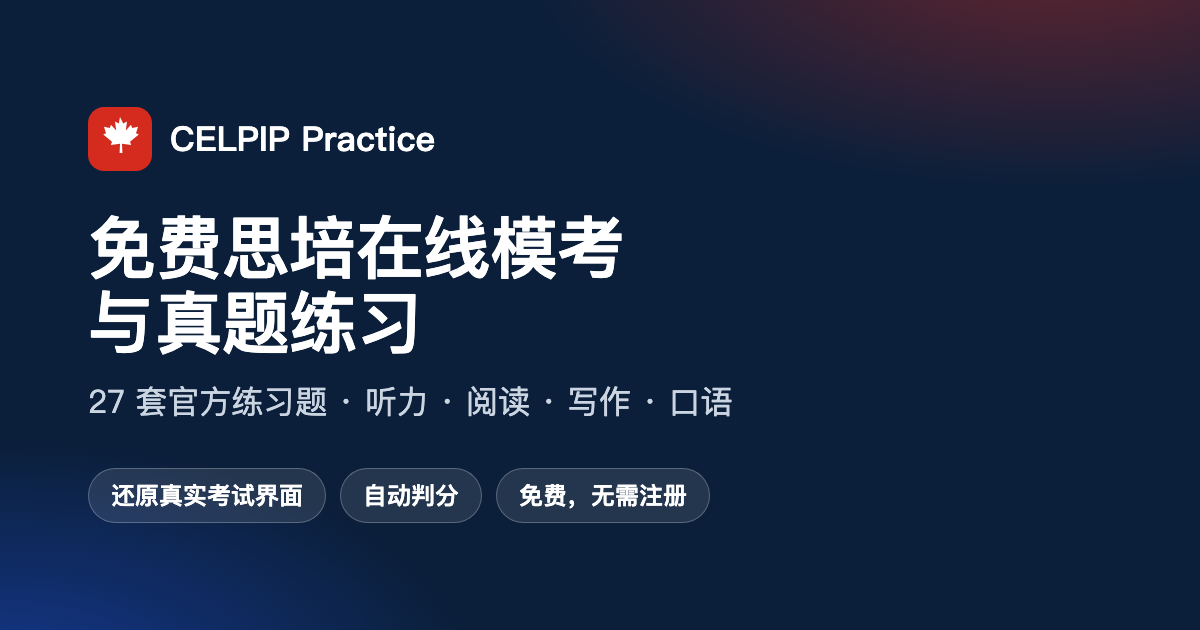
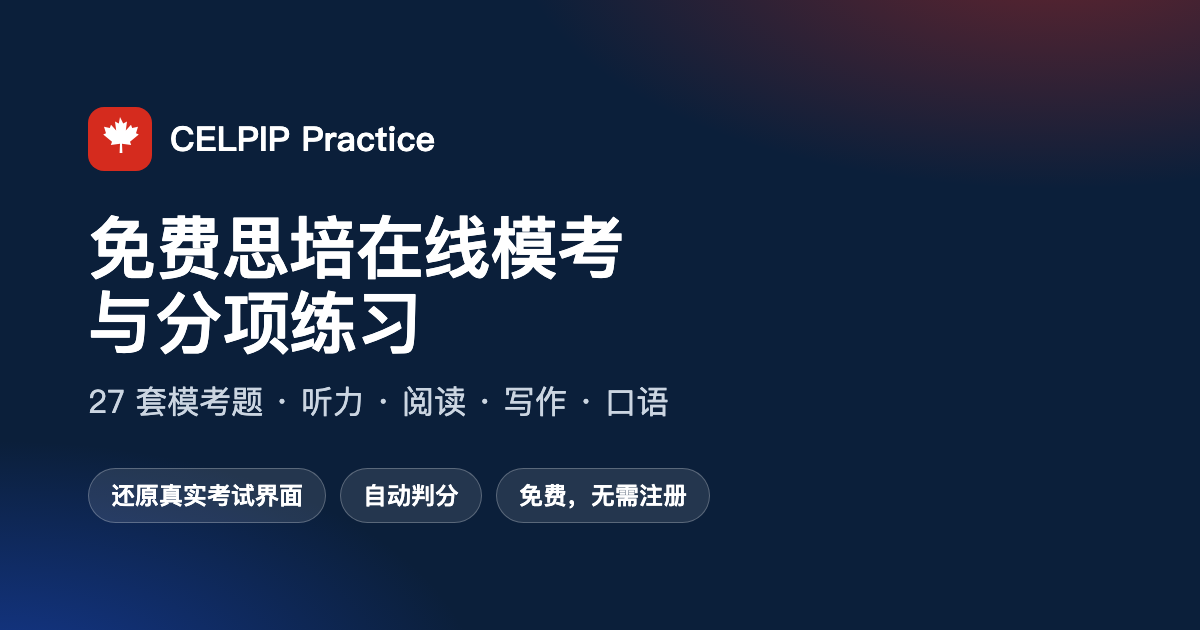
Drop 'official'/'真题' wording from site copy and share image

Changed region(s): [[0.1233, 0.6032, 0.6167, 0.6635], [0.1233, 0.4524, 0.2467, 0.573]]

diff --git a/lib/dict.ts b/lib/dict.ts
@@ -30,9 +30,9 @@ const zh = {
   "skill.writing": "写作",
   "skill.speaking": "口语",
 
-  "title.set": "真题 {set} · Test {test}",
+  "title.set": "Set {set} · Test {test}",
   "title.extra": "2021年3月前 · Test {test}",
-  "title.setGroup": "真题 {set}",
+  "title.setGroup": "Set {set}",
   "title.extraGroup": "2021年3月前旧版",
 
   "common.loading": "加载中…",
@@ -42,12 +42,12 @@ const zh = {
   "common.minutes": "{n} 分钟",
   "common.notes": "{n} 条提示",
 
-  "home.badge": "CELPIP-General 官方真题",
+  "home.badge": "CELPIP-General 模考练习",
   "home.title": "像真实考试一样练习思培",
-  "home.lead": "还原官方考试界面的在线模考，加上听、说、读、写分项练习。打开浏览器就能用，记录只保存在你自己的设备上。",
+  "home.lead": "还原机考界面的在线模考，加上听、说、读、写分项练习。打开浏览器就能用，记录只保存在你自己的设备上。",
   "home.startExam": "开始模拟考试",
   "home.startPractice": "分项练习",
-  "home.statTests": "套真题",
+  "home.statTests": "套模考题",
   "home.statQuestions": "道听力和阅读题",
   "home.statSkills": "项技能全覆盖",
   "home.examTitle": "模拟考试",
@@ -77,7 +77,7 @@ const zh = {
   "guide.tips": "答题技巧",
   "guide.scoring": "评分方式",
   "guide.try": "试一题",
-  "guide.tryNote": "“试一题”会打开真题 13 · Test 1 里对应的部分。",
+  "guide.tryNote": "“试一题”会打开 Set 13 · Test 1 里对应的部分。",
   "guide.practiceSkill": "开始{skill}练习",
   "guide.mock": "完整模考",
   "guide.others": "其他部分",
@@ -121,18 +121,18 @@ const zh = {
   "test.contentNote": "题目内容保持英文，与真实考试一致。",
 
   "meta.siteName": "CELPIP Practice 思培模考",
-  "meta.home.title": "CELPIP 免费在线模考与真题练习 | 思培听说读写",
-  "meta.home.description": "免费的 CELPIP（思培）在线模拟考试和分项练习：27 套官方练习题，还原真实考试界面，听力、阅读、写作、口语全覆盖，自动判分并估算 CELPIP 等级。",
-  "meta.exam.title": "CELPIP 全真模拟考试",
+  "meta.home.title": "CELPIP 免费在线模考与练习 | 思培听说读写",
+  "meta.home.description": "免费的 CELPIP（思培）在线模拟考试和分项练习：27 套模考题，还原真实考试界面，听力、阅读、写作、口语全覆盖，自动判分并估算 CELPIP 等级。",
+  "meta.exam.title": "CELPIP 在线模拟考试",
   "meta.exam.description": "按真实 CELPIP-General 流程计时模考：听力、阅读、写作、口语依次进行，录音只播一次，结束后给出成绩、等级估算和逐题解析。",
   "meta.practice.title": "CELPIP 分项练习：听力、阅读、写作、口语",
-  "meta.practice.description": "按技能和 Part 单独练习 CELPIP：听力可重听并查看原文，阅读即时对答案，写作和口语附官方范文和范例。",
+  "meta.practice.description": "按技能和 Part 单独练习 CELPIP：听力可重听并查看原文，阅读即时对答案，写作和口语附范文和范例。",
   "meta.history.title": "练习记录",
   "meta.run.title": "练习",
-  "meta.keywords": "CELPIP,思培,CELPIP 模考,CELPIP 真题,CELPIP 练习,思培考试,加拿大移民英语考试,CELPIP 听力,CELPIP 阅读,CELPIP 写作,CELPIP 口语",
+  "meta.keywords": "CELPIP,思培,CELPIP 模考,CELPIP 模拟题,CELPIP 练习,思培考试,加拿大移民英语考试,CELPIP 听力,CELPIP 阅读,CELPIP 写作,CELPIP 口语",
 
   "exam.title": "模拟考试",
-  "exam.lead": "选择一套真题，开始完整模考或只考某一科。",
+  "exam.lead": "选择一套题，开始完整模考或只考某一科。",
   "exam.detailTitle": "模拟考试",
   "exam.rules": "考试顺序与真实 CELPIP-General 相同。录音只播放一次，计时结束自动进入下一部分，不能返回上一页。",
   "exam.full": "完整模考",
@@ -183,7 +183,7 @@ const zh = {
   "history.attempts": "次练习",
   "history.avg": "{skill}平均正确率",
   "history.date": "时间",
-  "history.test": "真题",
+  "history.test": "套题",
   "history.skill": "科目",
   "history.mode": "模式",
   "history.score": "成绩",
@@ -203,11 +203,11 @@ const zh = {
   "result.correct": "正确答案：",
   "result.yourWriting": "你的作答（{n} words）",
   "result.noWriting": "（未作答）",
-  "result.officialSamples": "官方范文",
+  "result.officialSamples": "参考范文",
   "result.aiLater": "AI 评分将在后续版本加入。",
   "result.noRecording": "（没有录音）",
   "result.download": "下载",
-  "result.speakingSamples": "官方范例",
+  "result.speakingSamples": "参考范例",
   "result.noSamples": "本题没有提供范文。",
 
   "runner.transcript": "原文 Transcript",
@@ -251,9 +251,9 @@ const en: Record<Key, string> = {
   "common.minutes": "{n} min",
   "common.notes": "{n} notes",
 
-  "home.badge": "Official CELPIP-General practice tests",
+  "home.badge": "CELPIP-General practice tests",
   "home.title": "Practise CELPIP the way you'll take it",
-  "home.lead": "Full mock exams on a faithful copy of the official test screens, plus focused practice for listening, reading, writing and speaking. Runs in your browser; your history stays on your device.",
+  "home.lead": "Full mock exams on screens modelled on the computer-delivered test, plus focused practice for listening, reading, writing and speaking. Runs in your browser; your history stays on your device.",
   "home.startExam": "Start a mock exam",
   "home.startPractice": "Practise by skill",
   "home.statTests": "practice tests",
@@ -335,7 +335,7 @@ const en: Record<Key, string> = {
   "meta.exam.title": "Full CELPIP Mock Exam",
   "meta.exam.description": "Take a timed CELPIP-General mock exam in the real order: listening, reading, writing and speaking. Audio plays once, and you get a score, an estimated level and a question-by-question review.",
   "meta.practice.title": "CELPIP Practice by Skill: Listening, Reading, Writing, Speaking",
-  "meta.practice.description": "Practise one CELPIP skill and part at a time: replay listening audio with transcripts, check reading answers instantly, and compare your writing and speaking with official sample responses.",
+  "meta.practice.description": "Practise one CELPIP skill and part at a time: replay listening audio with transcripts, check reading answers instantly, and compare your writing and speaking with sample responses.",
   "meta.history.title": "History",
   "meta.run.title": "Practice",
   "meta.keywords": "CELPIP,CELPIP practice test,CELPIP mock exam,free CELPIP test,CELPIP listening practice,CELPIP reading practice,CELPIP writing practice,CELPIP speaking practice,CELPIP-General",
@@ -412,11 +412,11 @@ const en: Record<Key, string> = {
   "result.correct": "Correct answer: ",
   "result.yourWriting": "Your response ({n} words)",
   "result.noWriting": "(no response)",
-  "result.officialSamples": "Official sample responses",
+  "result.officialSamples": "Sample responses",
   "result.aiLater": "AI scoring is coming in a later version.",
   "result.noRecording": "(no recording)",
   "result.download": "Download",
-  "result.speakingSamples": "Official sample responses",
+  "result.speakingSamples": "Sample responses",
   "result.noSamples": "No sample responses for this task.",
 
   "runner.transcript": "Transcript",

diff --git a/lib/guides.ts b/lib/guides.ts
@@ -31,7 +31,7 @@ export const SKILL_GUIDES: Record<Skill, SkillGuide> = {
   listening: {
     title: { zh: "CELPIP 听力题型、时间与技巧：6 个 Part 详解", en: "CELPIP Listening Test: Format, Timing and Tips" },
     description: {
-      zh: "CELPIP 听力共 6 个 Part、38 道题，约 46–55 分钟。逐一讲解每个 Part 的题型、录音长度和答题技巧，并提供多套真题免费在线练习。",
+      zh: "CELPIP 听力共 6 个 Part、38 道题，约 46–55 分钟。逐一讲解每个 Part 的题型、录音长度和答题技巧，并提供多套模考题免费在线练习。",
       en: "The CELPIP Listening test has 6 parts and 38 questions in about 46–55 minutes. Part-by-part format, recording lengths and tips, with free online practice tests.",
     },
     h1: { zh: "CELPIP 听力：题型、时间与技巧", en: "CELPIP Listening: format, timing and tips" },
@@ -106,7 +106,7 @@ export const SKILL_GUIDES: Record<Skill, SkillGuide> = {
   reading: {
     title: { zh: "CELPIP 阅读题型、时间与技巧：4 个 Part 详解", en: "CELPIP Reading Test: Format, Timing and Tips" },
     description: {
-      zh: "CELPIP 阅读共 4 个 Part、38 道题，约 43–56 分钟，每个 Part 单独计时。详解信件、图表、信息和观点四类题型与答题技巧，附多套真题免费练习。",
+      zh: "CELPIP 阅读共 4 个 Part、38 道题，约 43–56 分钟，每个 Part 单独计时。详解信件、图表、信息和观点四类题型与答题技巧，附多套模考题免费练习。",
       en: "The CELPIP Reading test has 4 parts and 38 questions in about 43–56 minutes, each part timed separately. Format and tips for every part, with free online practice tests.",
     },
     h1: { zh: "CELPIP 阅读：题型、时间与技巧", en: "CELPIP Reading: format, timing and tips" },
@@ -168,8 +168,8 @@ export const SKILL_GUIDES: Record<Skill, SkillGuide> = {
   writing: {
     title: { zh: "CELPIP 写作题型、评分标准与技巧：邮件和调查问卷", en: "CELPIP Writing Test: Email and Survey Tasks, Scoring and Tips" },
     description: {
-      zh: "CELPIP 写作共 2 题：27 分钟写邮件、26 分钟回答调查问卷，各 150–200 词。讲解评分维度、结构和常见失分点，附官方范文和在线限时练习。",
-      en: "CELPIP Writing has two tasks: an email in 27 minutes and a survey response in 26 minutes, 150–200 words each. Scoring criteria, structure and common mistakes, with official samples and timed practice.",
+      zh: "CELPIP 写作共 2 题：27 分钟写邮件、26 分钟回答调查问卷，各 150–200 词。讲解评分维度、结构和常见失分点，附范文和在线限时练习。",
+      en: "CELPIP Writing has two tasks: an email in 27 minutes and a survey response in 26 minutes, 150–200 words each. Scoring criteria, structure and common mistakes, with sample responses and timed practice.",
     },
     h1: { zh: "CELPIP 写作：题型、评分与技巧", en: "CELPIP Writing: format, scoring and tips" },
     intro: {
@@ -220,8 +220,8 @@ export const SKILL_GUIDES: Record<Skill, SkillGuide> = {
   speaking: {
     title: { zh: "CELPIP 口语 8 个 Task 详解：准备时间、答题结构与技巧", en: "CELPIP Speaking Test: All 8 Tasks, Timing and Tips" },
     description: {
-      zh: "CELPIP 口语共 8 个 Task，约 15 分钟，对着电脑录音作答。逐一讲解每个 Task 的准备和作答时间、答题结构与评分维度，附官方范例和在线录音练习。",
-      en: "CELPIP Speaking has 8 tasks in about 15 minutes, recorded on the computer. Prep and speaking time for each task, how to structure answers, scoring criteria, official samples and recorded practice.",
+      zh: "CELPIP 口语共 8 个 Task，约 15 分钟，对着电脑录音作答。逐一讲解每个 Task 的准备和作答时间、答题结构与评分维度，附范例和在线录音练习。",
+      en: "CELPIP Speaking has 8 tasks in about 15 minutes, recorded on the computer. Prep and speaking time for each task, how to structure answers, scoring criteria, sample responses and recorded practice.",
     },
     h1: { zh: "CELPIP 口语：8 个 Task 与答题技巧", en: "CELPIP Speaking: the 8 tasks and how to answer" },
     intro: {
@@ -250,7 +250,7 @@ export const SKILL_GUIDES: Record<Skill, SkillGuide> = {
         "把作答时间用满比说得快更重要，长时间停顿会影响流利度和内容得分。",
         "Task 3 和 Task 8 想象对方看不到画面，按从左到右或从前到后的顺序描述，用上位置词。",
         "Task 5 和 Task 6 是对着具体的人说话，开头可以直接称呼对方，语气要符合关系。",
-        "练习时录音回放，再和官方范例对比用词、结构和语速。",
+        "练习时录音回放，再和范例对比用词、结构和语速。",
       ],
       en: [
         "During prep, jot down key words only. Writing full sentences leads to reading aloud and sounding stiff.",
@@ -258,7 +258,7 @@ export const SKILL_GUIDES: Record<Skill, SkillGuide> = {
         "Filling the time matters more than speaking fast. Long pauses hurt fluency and content.",
         "In Tasks 3 and 8 the listener can't see the picture. Describe in a clear order, left to right or front to back, using position words.",
         "In Tasks 5 and 6 you're talking to a specific person. Address them directly and match the tone to the relationship.",
-        "Record yourself, play it back, and compare word choice, structure and pace with the official samples.",
+        "Record yourself, play it back, and compare word choice, structure and pace with the sample responses.",
       ],
     },
     scoring: {
@@ -343,8 +343,8 @@ export const FAQ: { q: L; a: L }[] = [
   {
     q: { zh: "网站给出的等级准吗？", en: "How accurate is the level this site shows?" },
     a: {
-      zh: "听力和阅读的等级是按常见估算表从答对题数换算的，只能作为参考，官方没有公布换算表。写作和口语目前提供官方范文和范例供你对照，暂不自动打分。",
-      en: "Listening and Reading levels come from a commonly cited estimate table, since CELPIP doesn't publish one, so treat them as a guide. For Writing and Speaking the site shows official sample responses to compare against, with no automatic score yet.",
+      zh: "听力和阅读的等级是按常见估算表从答对题数换算的，只能作为参考，官方没有公布换算表。写作和口语目前提供范文和范例供你对照，暂不自动打分。",
+      en: "Listening and Reading levels come from a commonly cited estimate table, since CELPIP doesn't publish one, so treat them as a guide. For Writing and Speaking the site shows sample responses to compare against, with no automatic score yet.",
     },
   },
   {
